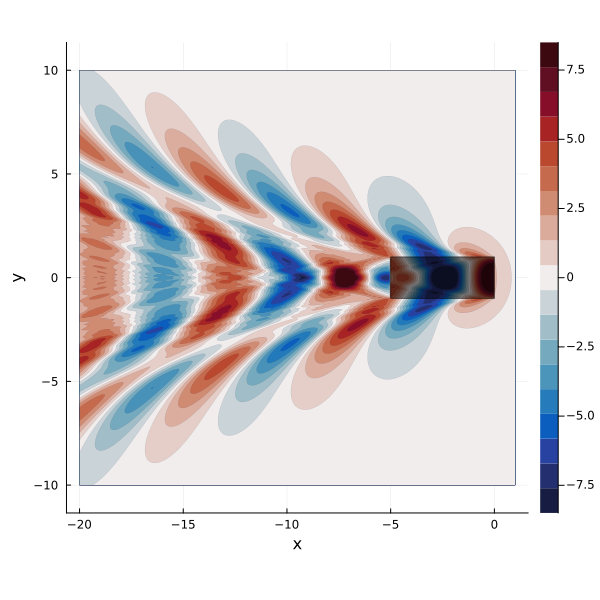
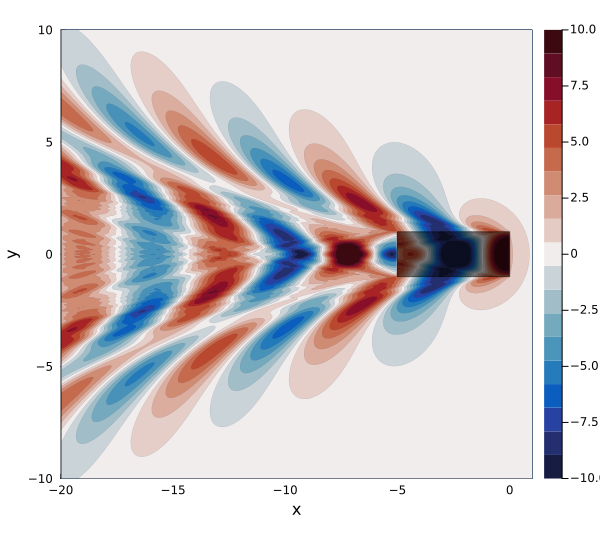
clean up wave field plots

diff --git a/tex/KelvinGreenWriteup.tex b/tex/KelvinGreenWriteup.tex
@@ -234,8 +234,12 @@ In general, the $W_b$ quadrature requires approximately twice as many phase and 
 \begin{figure}
     \centering
     \includegraphics[width=0.495\linewidth]{make_figures/wave_field_b1.png}
-    \includegraphics[width=0.495\linewidth]{make_figures/wave_field_b2.png}
-    \caption{Flat-ship wave elevation $\zeta$ scaled by the spanwise integrated strength $\tfrac \pi 2 q_0b$ for $L=5$ and $b=1,\, 2$ on the left and right, respectively.}
+    \begin{minipage}[c]{0.495\linewidth}
+        \centering
+        \includegraphics[width=\linewidth,trim=0 300 50 0,clip]{make_figures/wave_field_b0.5.png}\\[2pt]
+        \includegraphics[width=\linewidth,trim=0 300 50 0,clip]{make_figures/wave_field_b2.png}
+    \end{minipage}
+    \caption{Flat-ship wave elevation $\zeta$ scaled by the spanwise integrated strength $\tfrac \pi 2 q_0b$ for $L=5$. Left: full symmetric field for $b=1$. Right: half-field for $b=0.5$ (top) and $b=2$ (bottom).}
     \label{fig:wave_elevation}
 \end{figure}
 
